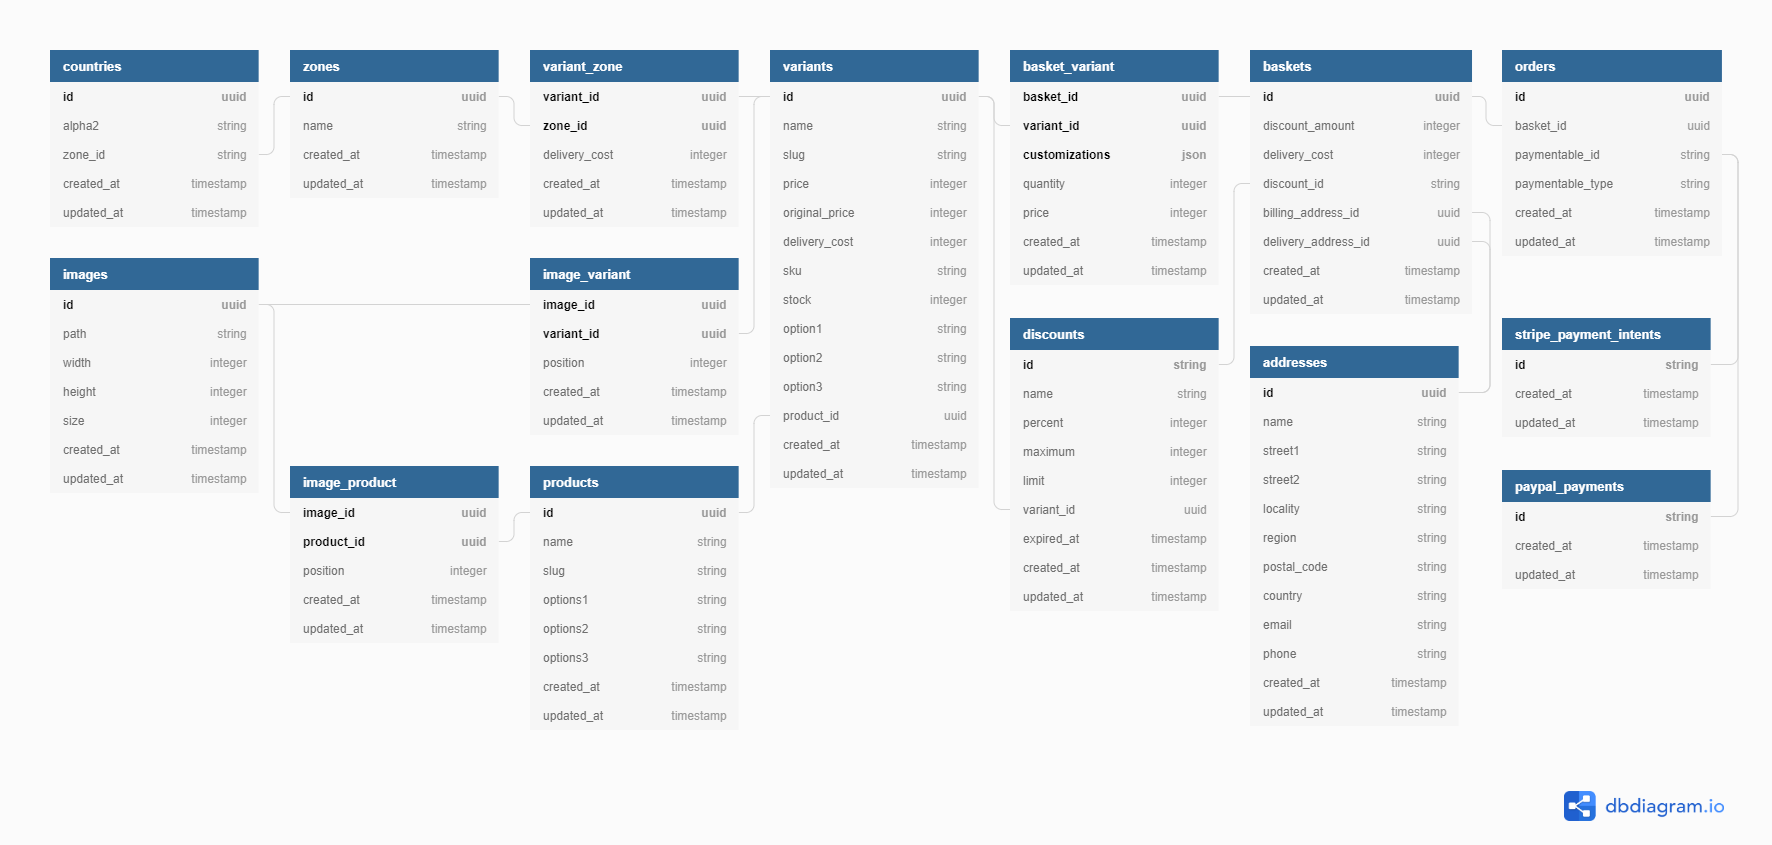
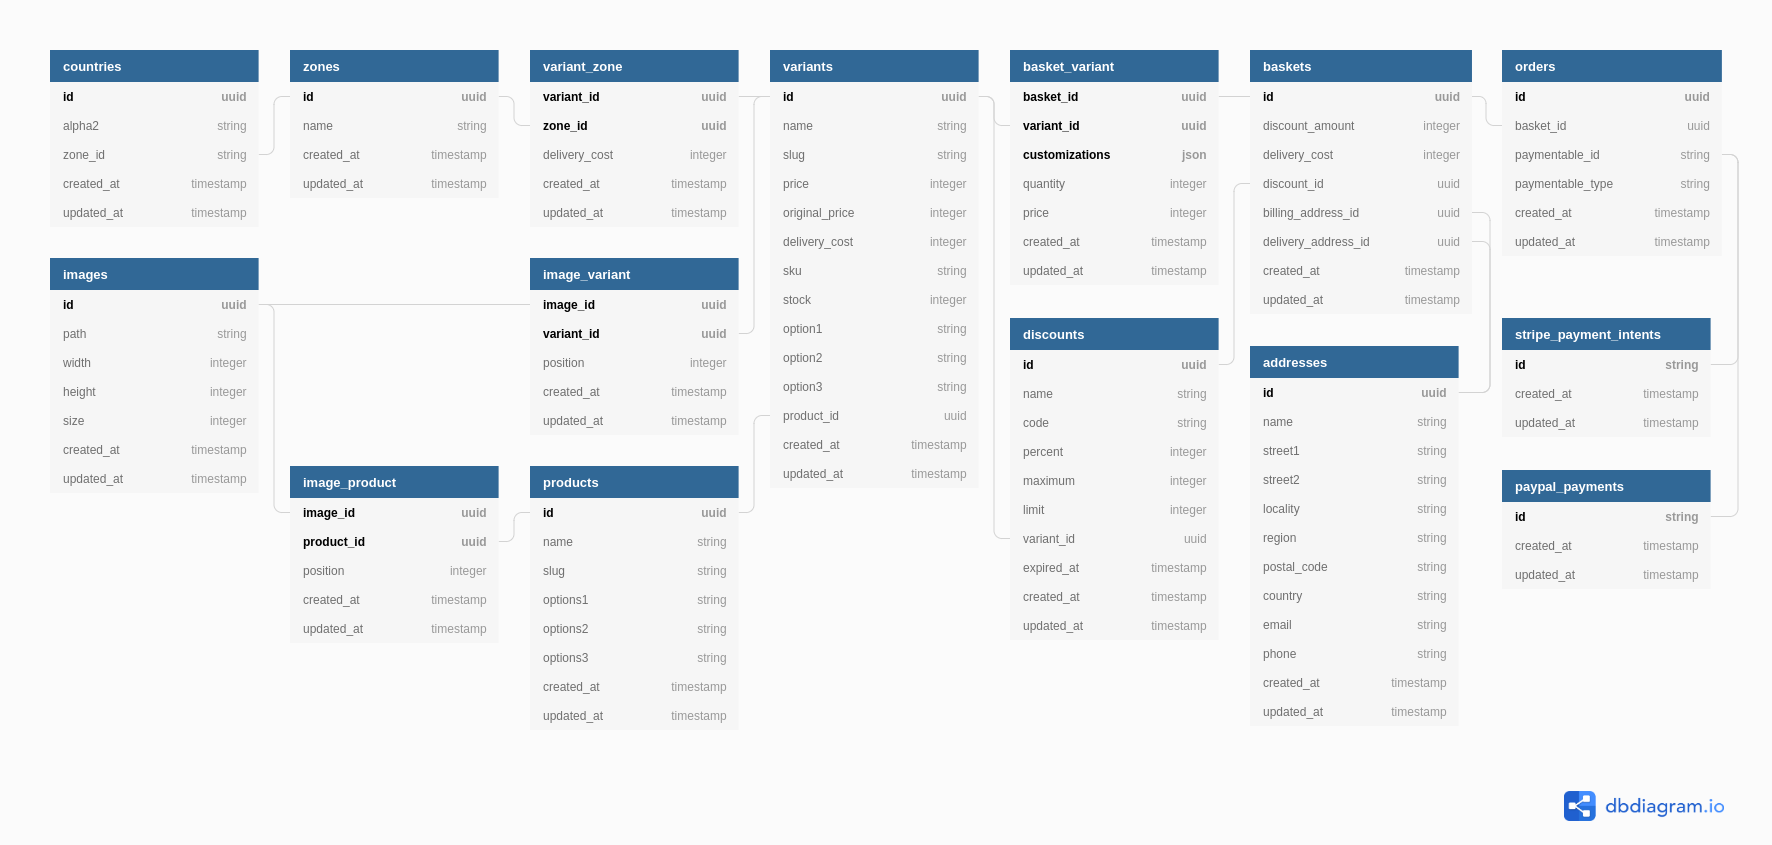
Revert to Discount code being separate property

diff --git a/tests/Unit/DiscountTest.php b/tests/Unit/DiscountTest.php
@@ -12,6 +12,16 @@ class DiscountTest extends TestCase
 {
     use RefreshDatabase;
 
+    public function testIdentifies(): void
+    {
+        $uuidPattern = '/^[a-f0-9]{8}-[a-f0-9]{4}-4[a-f0-9]{3}-[89aAbB][a-f0-9]{3}-[a-f0-9]{12}$/';
+
+        $discount = factory(Discount::class)->create();
+
+        $this->assertRegExp($uuidPattern, $discount->id);
+        $this->assertFalse($discount->incrementing);
+    }
+
     public function testBaskets(): void
     {
         $basket = factory(Basket::class)->make();

diff --git a/database/migrations/2019_07_14_000800_create_discounts_table.php b/database/migrations/2019_07_14_000800_create_discounts_table.php
@@ -9,8 +9,9 @@ class CreateDiscountsTable extends Migration
     public function up()
     {
         Schema::create('discounts', function (Blueprint $table) {
-            $table->string('id')->primary();
+            $table->uuid('id')->primary();
             $table->string('name');
+            $table->string('code')->unique();
             $table->unsignedInteger('percent');
             $table->unsignedInteger('maximum')->nullable();
             $table->unsignedInteger('limit')->nullable();

diff --git a/src/Discount.php b/src/Discount.php
@@ -5,18 +5,19 @@ namespace Jskrd\Shop;
 use Illuminate\Database\Eloquent\Model;
 use Illuminate\Database\Eloquent\Relations\BelongsTo;
 use Illuminate\Database\Eloquent\Relations\HasMany;
+use Jskrd\Shop\Traits\Identifies;
 
 class Discount extends Model
 {
+    use Identifies;
+
     protected $fillable = [
-        'id',
         'name',
+        'code',
         'percent',
         'maximum',
         'limit',
     ];
-
-    public $incrementing = false;
 
     protected $keyType = 'string';
 

diff --git a/database/factories/DiscountFactory.php b/database/factories/DiscountFactory.php
@@ -1,14 +1,13 @@
 <?php
 
 use Faker\Generator as Faker;
-use Illuminate\Support\Str;
 use Jskrd\Shop\Discount;
 use Jskrd\Shop\Variant;
 
 $factory->define(Discount::class, function (Faker $faker) {
     return [
-        'id' => Str::random(10),
         'name' => $faker->name,
+        'code' => $faker->unique()->word,
         'percent' => rand(10, 100),
         'maximum' => rand(0, 1) === 1 ? rand(1, 10) * 100 : null,
         'limit' => rand(0, 1) === 1 ? rand(1, 10000) : null,

diff --git a/database/migrations/2019_07_14_001000_create_baskets_table.php b/database/migrations/2019_07_14_001000_create_baskets_table.php
@@ -14,7 +14,7 @@ class CreateBasketsTable extends Migration
             $table->unsignedInteger('delivery_cost');
             $table->uuid('billing_address_id')->nullable();
             $table->uuid('delivery_address_id')->nullable();
-            $table->string('discount_id')->nullable();
+            $table->uuid('discount_id')->nullable();
             $table->timestamps();
 
             $table
